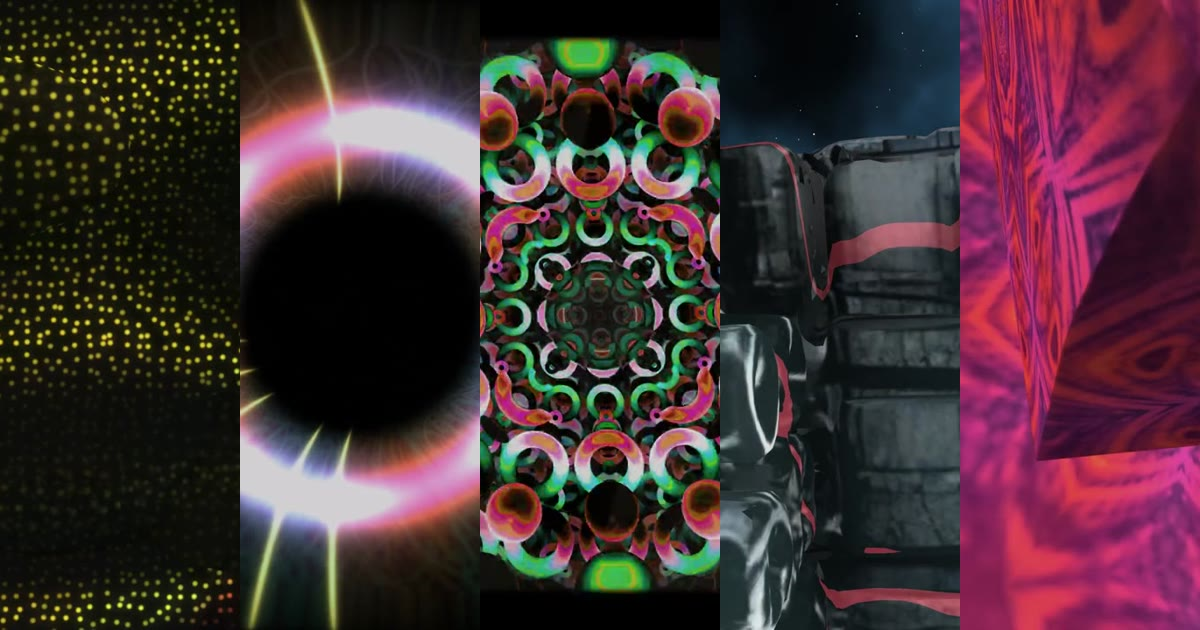
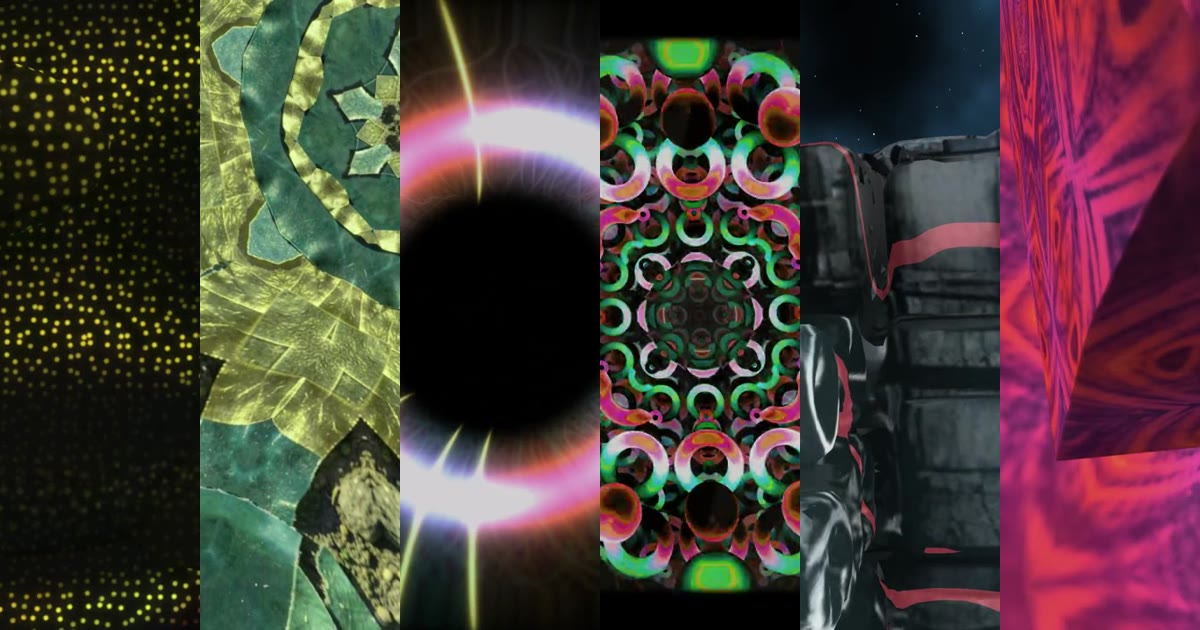
Empyrean auf der Seite der Familie: sechs Instrumente

diff --git a/index.html b/index.html
@@ -3,10 +3,10 @@
 <head>
 <meta charset="utf-8">
 <meta name="viewport" content="width=device-width, initial-scale=1">
-<title>VRAudio: five generative instruments</title>
-<meta name="description" content="Noctuary, Ephemeris, Phosphene, Totality and Parhelion: five instruments that compose and synthesise music from a seed — ambient, Berlin School, psytrance, techno and trance. VST3, Audio Unit, LV2, standalone, Meta Quest; Windows, macOS and Linux. They play together as one band.">
-<meta property="og:title" content="VRAudio: five generative instruments">
-<meta property="og:description" content="Ambient, Berlin School, psytrance, techno and trance — composed from a seed and synthesised while they play.">
+<title>VRAudio: six generative instruments</title>
+<meta name="description" content="Noctuary, Empyrean, Ephemeris, Phosphene, Totality and Parhelion: six instruments that compose and synthesise music from a seed — ambient, space ambient on the GPU, Berlin School, psytrance, techno and trance. VST3, Audio Unit, LV2, standalone, Meta Quest; Windows, macOS and Linux. They play together as one band.">
+<meta property="og:title" content="VRAudio: six generative instruments">
+<meta property="og:description" content="Ambient, space ambient of twenty thousand sine waves a voice on the GPU, Berlin School, psytrance, techno and trance — composed from a seed and synthesised while they play.">
 <meta property="og:image" content="https://reneweller-coding.github.io/VRAudio/img/og.jpg">
 <link rel="icon" href="img/noctuary.png">
 <style>
@@ -85,19 +85,20 @@ footer { border-top: 1px solid var(--line); color: var(--muted); font-size: 14px
 </head>
 <body>
 <header class="wrap">
-  <h1>Five instruments that compose while they play</h1>
-  <p>Noctuary, Ephemeris, Phosphene, Totality and Parhelion each write their music from a seed — the key, the form,
-  every note — and synthesise it in real time. Nothing is played back from a recording: the same seed gives the same
+  <h1>Six instruments that compose while they play</h1>
+  <p>Noctuary, Empyrean, Ephemeris, Phosphene, Totality and Parhelion each write their music from a seed — the key, the
+  form, every note — and synthesise it in real time; Empyrean on the graphics card, twenty thousand sine waves a
+  voice. Nothing is played back from a recording: the same seed gives the same
   piece, and a new one gives a piece nobody has heard.</p>
   <p>They share their build, their panel and the hands of a Meta Quest, follow a DAW or an Ableton Link session, send
   their notes out as MIDI and their stems to outputs of their own, and play together as one band. Free software under
   the AGPL-3.0.</p>
   <ul class="chips">
-    <li>VST3 + standalone</li><li>AU on macOS</li><li>LV2 on Linux</li><li>Windows x64</li><li>macOS Apple Silicon (untested)</li><li>Linux x86-64</li><li>Meta Quest</li>
+    <li>VST3 + standalone</li><li>AU on macOS</li><li>LV2 on Linux</li><li>Windows x64</li><li>macOS Apple Silicon (untested)</li><li>Linux x86-64</li><li>Meta Quest</li><li>NVIDIA CUDA (Empyrean)</li>
     <li>MIDI out</li><li>Ableton Link</li><li>Family jam</li><li>C++20 + JUCE</li>
   </ul>
   <nav class="jump">
-    <a href="#noctuary">Noctuary</a><a href="#ephemeris">Ephemeris</a><a href="#phosphene">Phosphene</a>
+    <a href="#noctuary">Noctuary</a><a href="#empyrean">Empyrean</a><a href="#ephemeris">Ephemeris</a><a href="#phosphene">Phosphene</a>
     <a href="#totality">Totality</a><a href="#parhelion">Parhelion</a><a href="#together">What they share</a>
   </nav>
 </header>
@@ -120,6 +121,29 @@ footer { border-top: 1px solid var(--line); color: var(--muted); font-size: 14px
       <div class="track"><span>Consonant Expanse</span><audio controls preload="none" src="https://github.com/reneweller-coding/Noctuary/releases/download/demos/consonant_expanse.mp3"></audio></div>
       <div class="track"><span>Somnus Field</span><audio controls preload="none" src="https://github.com/reneweller-coding/Noctuary/releases/download/demos/somnus_field.mp3"></audio></div>
       <div class="track"><span>Harmonic Hours</span><audio controls preload="none" src="https://github.com/reneweller-coding/Noctuary/releases/download/demos/harmonic_hours.mp3"></audio></div>
+      </div>
+    </div>
+  </section>
+  <section class="inst" id="empyrean">
+    <div>
+      <div class="head"><img src="img/empyrean.png" alt=""><div><h2>Empyrean</h2><div class="genre">Space ambient on the GPU</div></div></div>
+      <p>An additive synthesizer on the graphics card: every voice twenty thousand sine waves, each harmonic a cloud of detuned partials with envelopes of their own, a conductor in just intonation that plays all night, a modal hall of 65,536 resonances that remembers what it heard -- and around it physics as sound: fluids, living fields, stars and black holes, weather, giant throats. For Windows with an NVIDIA GeForce RTX card.</p>
+      <div class="links">
+        <a class="primary" href="https://github.com/reneweller-coding/Empyrean/releases/latest">Download</a>
+        <a href="https://github.com/reneweller-coding/Empyrean">Source and manual</a>
+        <a href="https://github.com/reneweller-coding/Empyrean/releases/tag/demos">All demos</a>
+      </div>
+    </div>
+    <div>
+      <video controls preload="none" poster="img/empyrean-demo.jpg" src="https://github.com/reneweller-coding/Empyrean/releases/download/demos/convective_betelgeuse.mp4"></video>
+      <div class="caption">Convective Betelgeuse, rendered by Empyrean; pictures by KaleidoscopeEnhanced. <a href="https://github.com/reneweller-coding/Empyrean/releases/download/demos/convective_betelgeuse.mp4">Open the video</a></div>
+      <div class="tracks">
+      <div class="track"><span>Lunar Hall</span><audio controls preload="none" src="https://github.com/reneweller-coding/Empyrean/releases/download/demos/lunar_hall.mp3"></audio></div>
+      <div class="track"><span>Teeming Garden</span><audio controls preload="none" src="https://github.com/reneweller-coding/Empyrean/releases/download/demos/teeming_garden.mp3"></audio></div>
+      <div class="track"><span>Thunderous Rainpool</span><audio controls preload="none" src="https://github.com/reneweller-coding/Empyrean/releases/download/demos/thunderous_rainpool.mp3"></audio></div>
+      <div class="track"><span>Convective Betelgeuse</span><audio controls preload="none" src="https://github.com/reneweller-coding/Empyrean/releases/download/demos/convective_betelgeuse.mp3"></audio></div>
+      <div class="track"><span>Sliding Whistler</span><audio controls preload="none" src="https://github.com/reneweller-coding/Empyrean/releases/download/demos/sliding_whistler.mp3"></audio></div>
+      <div class="track"><span>Steppe Night</span><audio controls preload="none" src="https://github.com/reneweller-coding/Empyrean/releases/download/demos/steppe_night.mp3"></audio></div>
       </div>
     </div>
   </section>
@@ -214,17 +238,19 @@ footer { border-top: 1px solid var(--line); color: var(--muted); font-size: 14px
     <h2>What they share</h2>
     <ul>
       <li><b>One panel.</b> The header, the tabs, the keys, Undo and Redo, the right click on every control (MIDI learn,
-      the default) and Help (F1) are the same in all five.</li>
+      the default) and Help (F1) are the same in all six.</li>
       <li><b>One keyboard.</b> A MIDI keyboard plays any voice, replaces or layers the composer's notes, splits between
       two voices, locks to the scale and shapes the velocity — each option off until chosen.</li>
       <li><b>With other software.</b> MIDI out of every note as it sounds, a stereo output per stem in a DAW, and Ableton
-      Link in the standalone: tempo, bars, start and stop.</li>
+      Link in the standalone: tempo, bars, start and stop — in the five generators; Empyrean takes MIDI and MPE in and
+      sends its sound out.</li>
       <li><b>One band.</b> The family jam: one instrument leads — its key, the energy of its sections, its breaks and
       drops — and the others follow, the root at their next bar line, the mode with their next piece, on the bars
       Ableton Link or the DAW gives them all.</li>
       <li><b>One headset.</b> A Meta Quest app per instrument and one grammar of hands for all of them.</li>
       <li><b>Checked.</b> Every function documented and checked by a test, a CI run on every push, and a sound check that
-      measures every style's loudness against its last known render.</li>
+      measures every style's loudness against its last known render. Empyrean's tests run on the machine that builds
+      it: no CI runner has the card they need.</li>
     </ul>
   </div>
 </main>

diff --git a/page.html b/page.html
@@ -3,10 +3,10 @@
 <head>
 <meta charset="utf-8">
 <meta name="viewport" content="width=device-width, initial-scale=1">
-<title>VRAudio: five generative instruments</title>
-<meta name="description" content="Noctuary, Ephemeris, Phosphene, Totality and Parhelion: five instruments that compose and synthesise music from a seed — ambient, Berlin School, psytrance, techno and trance. VST3, Audio Unit, LV2, standalone, Meta Quest; Windows, macOS and Linux. They play together as one band.">
-<meta property="og:title" content="VRAudio: five generative instruments">
-<meta property="og:description" content="Ambient, Berlin School, psytrance, techno and trance — composed from a seed and synthesised while they play.">
+<title>VRAudio: six generative instruments</title>
+<meta name="description" content="Noctuary, Empyrean, Ephemeris, Phosphene, Totality and Parhelion: six instruments that compose and synthesise music from a seed — ambient, space ambient on the GPU, Berlin School, psytrance, techno and trance. VST3, Audio Unit, LV2, standalone, Meta Quest; Windows, macOS and Linux. They play together as one band.">
+<meta property="og:title" content="VRAudio: six generative instruments">
+<meta property="og:description" content="Ambient, space ambient of twenty thousand sine waves a voice on the GPU, Berlin School, psytrance, techno and trance — composed from a seed and synthesised while they play.">
 <meta property="og:image" content="https://reneweller-coding.github.io/VRAudio/img/og.jpg">
 <link rel="icon" href="img/noctuary.png">
 <style>
@@ -85,19 +85,20 @@ footer { border-top: 1px solid var(--line); color: var(--muted); font-size: 14px
 </head>
 <body>
 <header class="wrap">
-  <h1>Five instruments that compose while they play</h1>
-  <p>Noctuary, Ephemeris, Phosphene, Totality and Parhelion each write their music from a seed — the key, the form,
-  every note — and synthesise it in real time. Nothing is played back from a recording: the same seed gives the same
+  <h1>Six instruments that compose while they play</h1>
+  <p>Noctuary, Empyrean, Ephemeris, Phosphene, Totality and Parhelion each write their music from a seed — the key, the
+  form, every note — and synthesise it in real time; Empyrean on the graphics card, twenty thousand sine waves a
+  voice. Nothing is played back from a recording: the same seed gives the same
   piece, and a new one gives a piece nobody has heard.</p>
   <p>They share their build, their panel and the hands of a Meta Quest, follow a DAW or an Ableton Link session, send
   their notes out as MIDI and their stems to outputs of their own, and play together as one band. Free software under
   the AGPL-3.0.</p>
   <ul class="chips">
-    <li>VST3 + standalone</li><li>AU on macOS</li><li>LV2 on Linux</li><li>Windows x64</li><li>macOS Apple Silicon (untested)</li><li>Linux x86-64</li><li>Meta Quest</li>
+    <li>VST3 + standalone</li><li>AU on macOS</li><li>LV2 on Linux</li><li>Windows x64</li><li>macOS Apple Silicon (untested)</li><li>Linux x86-64</li><li>Meta Quest</li><li>NVIDIA CUDA (Empyrean)</li>
     <li>MIDI out</li><li>Ableton Link</li><li>Family jam</li><li>C++20 + JUCE</li>
   </ul>
   <nav class="jump">
-    <a href="#noctuary">Noctuary</a><a href="#ephemeris">Ephemeris</a><a href="#phosphene">Phosphene</a>
+    <a href="#noctuary">Noctuary</a><a href="#empyrean">Empyrean</a><a href="#ephemeris">Ephemeris</a><a href="#phosphene">Phosphene</a>
     <a href="#totality">Totality</a><a href="#parhelion">Parhelion</a><a href="#together">What they share</a>
   </nav>
 </header>
@@ -108,17 +109,19 @@ footer { border-top: 1px solid var(--line); color: var(--muted); font-size: 14px
     <h2>What they share</h2>
     <ul>
       <li><b>One panel.</b> The header, the tabs, the keys, Undo and Redo, the right click on every control (MIDI learn,
-      the default) and Help (F1) are the same in all five.</li>
+      the default) and Help (F1) are the same in all six.</li>
       <li><b>One keyboard.</b> A MIDI keyboard plays any voice, replaces or layers the composer's notes, splits between
       two voices, locks to the scale and shapes the velocity — each option off until chosen.</li>
       <li><b>With other software.</b> MIDI out of every note as it sounds, a stereo output per stem in a DAW, and Ableton
-      Link in the standalone: tempo, bars, start and stop.</li>
+      Link in the standalone: tempo, bars, start and stop — in the five generators; Empyrean takes MIDI and MPE in and
+      sends its sound out.</li>
       <li><b>One band.</b> The family jam: one instrument leads — its key, the energy of its sections, its breaks and
       drops — and the others follow, the root at their next bar line, the mode with their next piece, on the bars
       Ableton Link or the DAW gives them all.</li>
       <li><b>One headset.</b> A Meta Quest app per instrument and one grammar of hands for all of them.</li>
       <li><b>Checked.</b> Every function documented and checked by a test, a CI run on every push, and a sound check that
-      measures every style's loudness against its last known render.</li>
+      measures every style's loudness against its last known render. Empyrean's tests run on the machine that builds
+      it: no CI runner has the card they need.</li>
     </ul>
   </div>
 </main>

diff --git a/make_page.py b/make_page.py
@@ -23,6 +23,15 @@ FAMILY = [
      'measured by rendering them.',
      ('consonant_expanse', 'Consonant Expanse'),
      [('consonant_expanse', 'Consonant Expanse'), ('somnus_field', 'Somnus Field'), ('harmonic_hours', 'Harmonic Hours')]),
+    ('Empyrean', 'AdditivAmbientSynth', 'Space ambient on the GPU', 'Deploy/empyrean.png',
+     'An additive synthesizer on the graphics card: every voice twenty thousand sine waves, each harmonic a cloud of '
+     'detuned partials with envelopes of their own, a conductor in just intonation that plays all night, a modal hall of '
+     '65,536 resonances that remembers what it heard -- and around it physics as sound: fluids, living fields, stars and '
+     'black holes, weather, giant throats. For Windows with an NVIDIA GeForce RTX card.',
+     ('convective_betelgeuse', 'Convective Betelgeuse'),
+     [('lunar_hall', 'Lunar Hall'), ('teeming_garden', 'Teeming Garden'), ('thunderous_rainpool', 'Thunderous Rainpool'),
+      ('convective_betelgeuse', 'Convective Betelgeuse'), ('sliding_whistler', 'Sliding Whistler'),
+      ('steppe_night', 'Steppe Night')]),
     ('Ephemeris', 'BerlinSchoolGenerator', 'Berlin School', 'docs/logo-128.png',
      'Sequenced modular voices and a composer that plays whole pieces and night sets: eight rows orbiting a root, '
      'circuit-modelled filters and VCOs, tape keys, strings and a poly synth, envelopes, LFOs and a modulation matrix '
@@ -90,7 +99,7 @@ def section(name, genre, text, video, demos):
 
 def main():
     ap = argparse.ArgumentParser(description=__doc__.split('\n')[0])
-    ap.add_argument('--vraudio', default=os.path.dirname(HERE), help='the folder holding the five repositories')
+    ap.add_argument('--vraudio', default=os.path.dirname(HERE), help='the folder holding the six repositories')
     a = ap.parse_args()
     img = os.path.join(HERE, 'img')
     os.makedirs(img, exist_ok=True)
@@ -108,7 +117,8 @@ def main():
         cmd = ['ffmpeg', '-v', 'error', '-y']
         for p in posters:
             cmd += ['-i', p]
-        strips = ';'.join('[%d:v]scale=-2:630,crop=240:630[s%d]' % (i, i) for i in range(len(posters)))
+        strips = ';'.join('[%d:v]scale=-2:630,crop=%d:630[s%d]' % (i, 1200 // len(posters), i)
+                          for i in range(len(posters)))
         cmd += ['-filter_complex', strips + ';' + ''.join('[s%d]' % i for i in range(len(posters)))
                 + 'hstack=inputs=%d' % len(posters), '-q:v', '3', os.path.join(img, 'og.jpg')]
         subprocess.run(cmd, check=True)

diff --git a/README.md b/README.md
@@ -1,19 +1,21 @@
 # VRAudio
 
-The page of five generative instruments: **[reneweller-coding.github.io/VRAudio](https://reneweller-coding.github.io/VRAudio/)**.
+The page of six generative instruments: **[reneweller-coding.github.io/VRAudio](https://reneweller-coding.github.io/VRAudio/)**.
 
 | | genre | |
 |---|---|---|
 | [Noctuary](https://github.com/reneweller-coding/Noctuary) | ambient and drone | a synthesizer for slowly breathing clusters, a conductor that plays all night |
+| [Empyrean](https://github.com/reneweller-coding/Empyrean) | space ambient on the GPU | twenty thousand sine waves a voice in CUDA, physics as sound |
 | [Ephemeris](https://github.com/reneweller-coding/Ephemeris) | Berlin School | sequenced modular voices and a composer of whole pieces and night sets |
 | [Phosphene](https://github.com/reneweller-coding/Phosphene) | psytrance | complete sets from a seed: Goa, Full-On, Progressive, Dark Forest, Hi-Tech |
 | [Totality](https://github.com/reneweller-coding/Totality) | hypnotic techno | tracks of 32-bar plateaus and DJ sets that mix themselves |
 | [Parhelion](https://github.com/reneweller-coding/Parhelion) | trance | the supersaw, a physical piano, a synthesised orchestra |
 
 Each composes its music from a seed and synthesises it while it plays: VST3 and standalone for Windows, Linux and macOS
-(Apple Silicon, untested), a Meta Quest app, MIDI out, a stereo output per stem, Ableton Link. Free software under the
-AGPL-3.0; every repository has its manual, its releases and a release "demos".
+(Apple Silicon, untested), a Meta Quest app, MIDI out, a stereo output per stem, Ableton Link -- Empyrean for Windows
+with an NVIDIA GeForce RTX card. Free software under the AGPL-3.0; every repository has its manual, its releases and a
+release "demos".
 
 `python make_page.py` writes `index.html` from `page.html` and its table, with the logos and the demo posters taken
-from the five repositories beside this one (`Tools/demo/make_demos.py` in each makes the demos). The videos and the
+from the six repositories beside this one (`Tools/demo/make_demos.py` in each makes the demos). The videos and the
 MP3s stay on each repository's release "demos" and are played from there.
